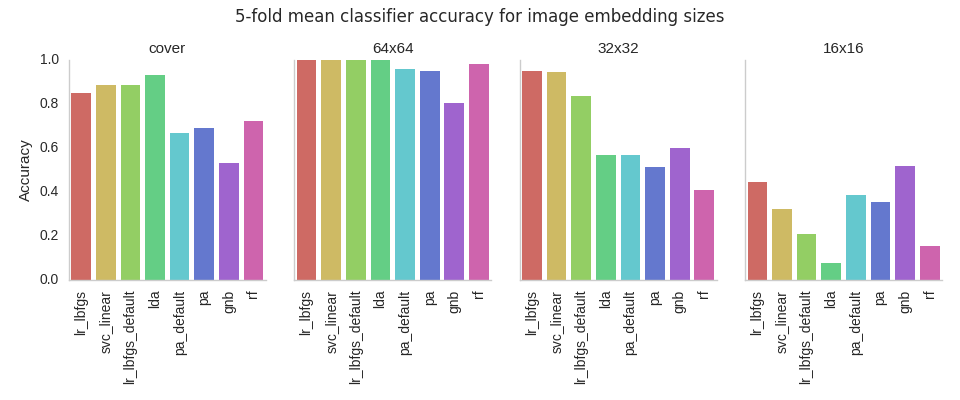
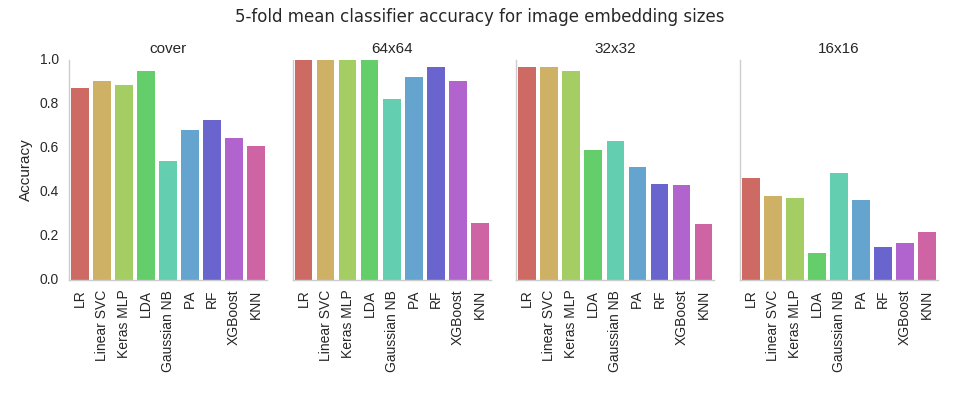
README and associated plots update.

diff --git a/README.md b/README.md
@@ -6,23 +6,12 @@ Detecting whether steganography is present in an image using machine learning.
 - Preliminary model comparisons.
 
 ### Preliminary Results
-Model 5-fold cross validation results on 3960 (dimensions=256x256) images of cats and dogs with various message sizes embedded - images are converted to strings and embedded using the Least Significant Bit algorithm. Break down of image types below: cover is the original image, lenna16 is the lenna.png cropped to 16x16 pixels, converted to a string and embedded in the image. Similarly, lenna32 is a 32x32 pixel image.
+Model 5-fold cross validation results on 2000 (256x256) images of cats and dogs with various message sizes embedded - images are converted to strings and embedded using the Least Significant Bit algorithm.
 
-`Counter({'cover': 1000, 'lenna16': 1000, 'lenna32': 999, 'lenna64': 961})`
+Image type counts below. Cover is the original image and 64x64 is the image size that is embedded to a cover image.
 
-```
-                    acc    log_loss   precision  recall     f1      roc_auc
-classifier                                                                  
-svc_linear        0.8370   5.629867   0.868915  0.788451  0.826650  0.836486
-lr_lbfgs          0.8285   5.923461   0.839406  0.807798  0.823155  0.828125
-lr_lbfgs_default  0.7885   7.305007   0.835395  0.713187  0.768811  0.788010
-lda               0.7520   8.565647   0.883020  0.576351  0.695906  0.750343
-pa                0.6470  12.192319   0.649203  0.616547  0.631840  0.645586
-pa_default        0.6465  12.209611   0.635175  0.674285  0.652296  0.648117
-rf                0.6280  12.848548   0.646349  0.562253  0.597762  0.629976
-gnb               0.5720  14.782827   0.551631  0.717321  0.623072  0.573963
+`Counter({'16x16': 350, '32x32': 333, '64x64': 317, 'cover': 1000})`
 
-```
 
 ![Classifier Accuracy](https://github.com/rokkuran/stegasawus/blob/master/output/plots/clf_embedding_acc.png)
 
@@ -34,3 +23,4 @@ gnb               0.5720  14.782827   0.551631  0.717321  0.623072  0.573963
 - Model persistence for well performing trained models.
 - Write a few non-repeating integer sequence generators for use in LSB embedding.
 - Write own LSB embedding algorithm.
+- Tune XGBoost parameters.
